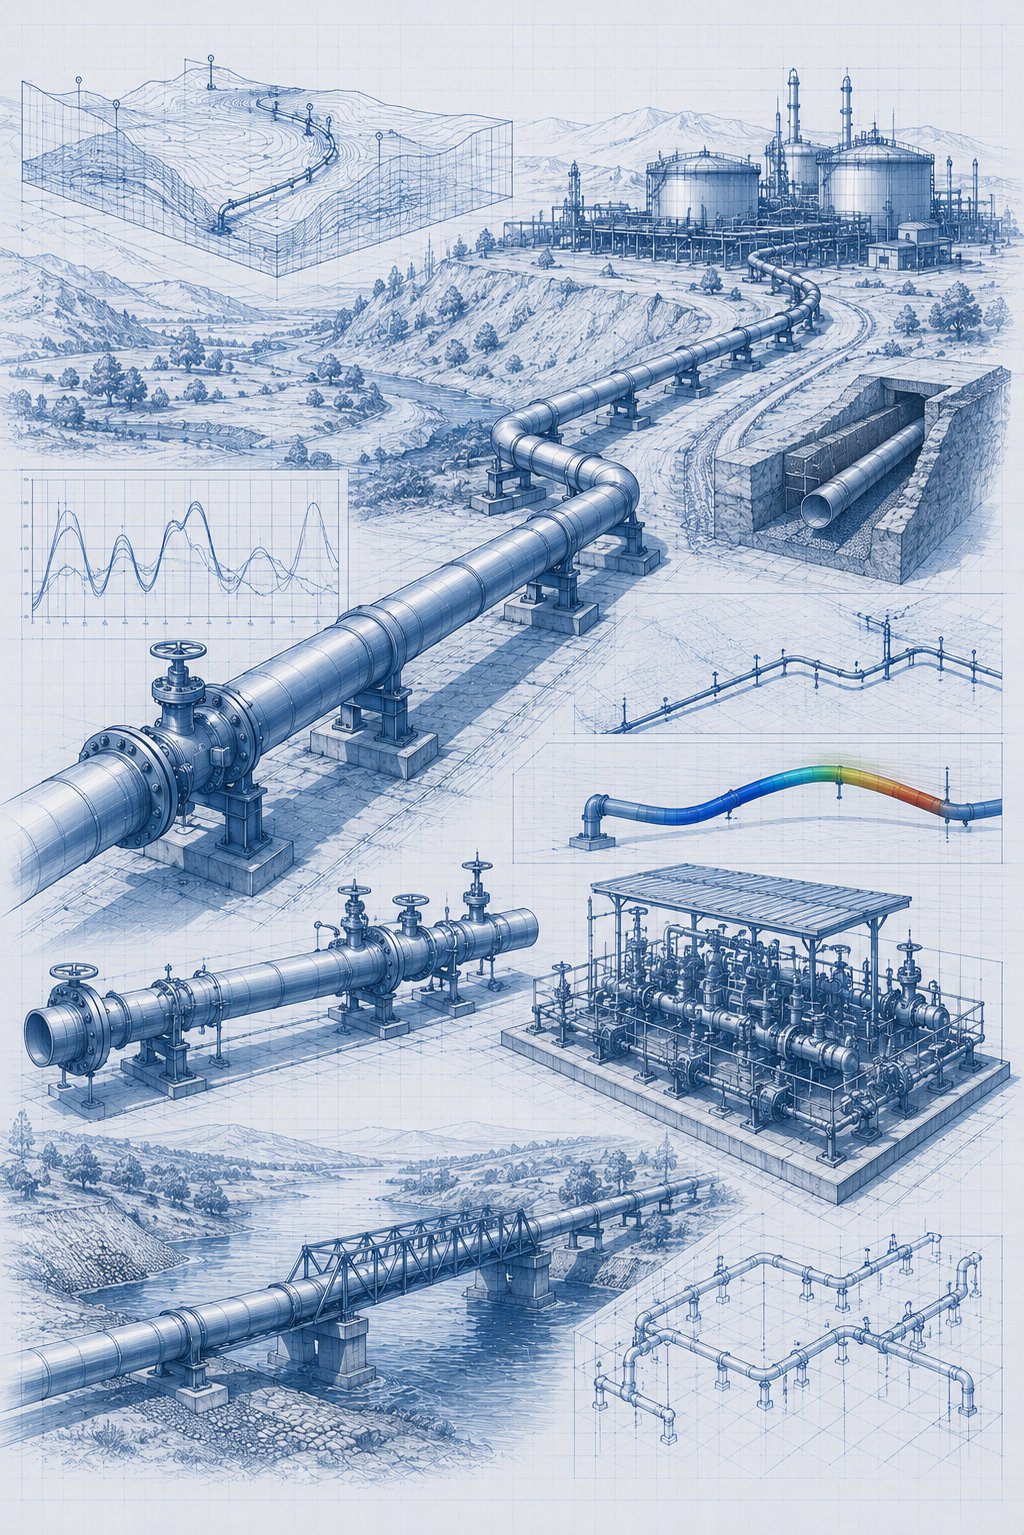
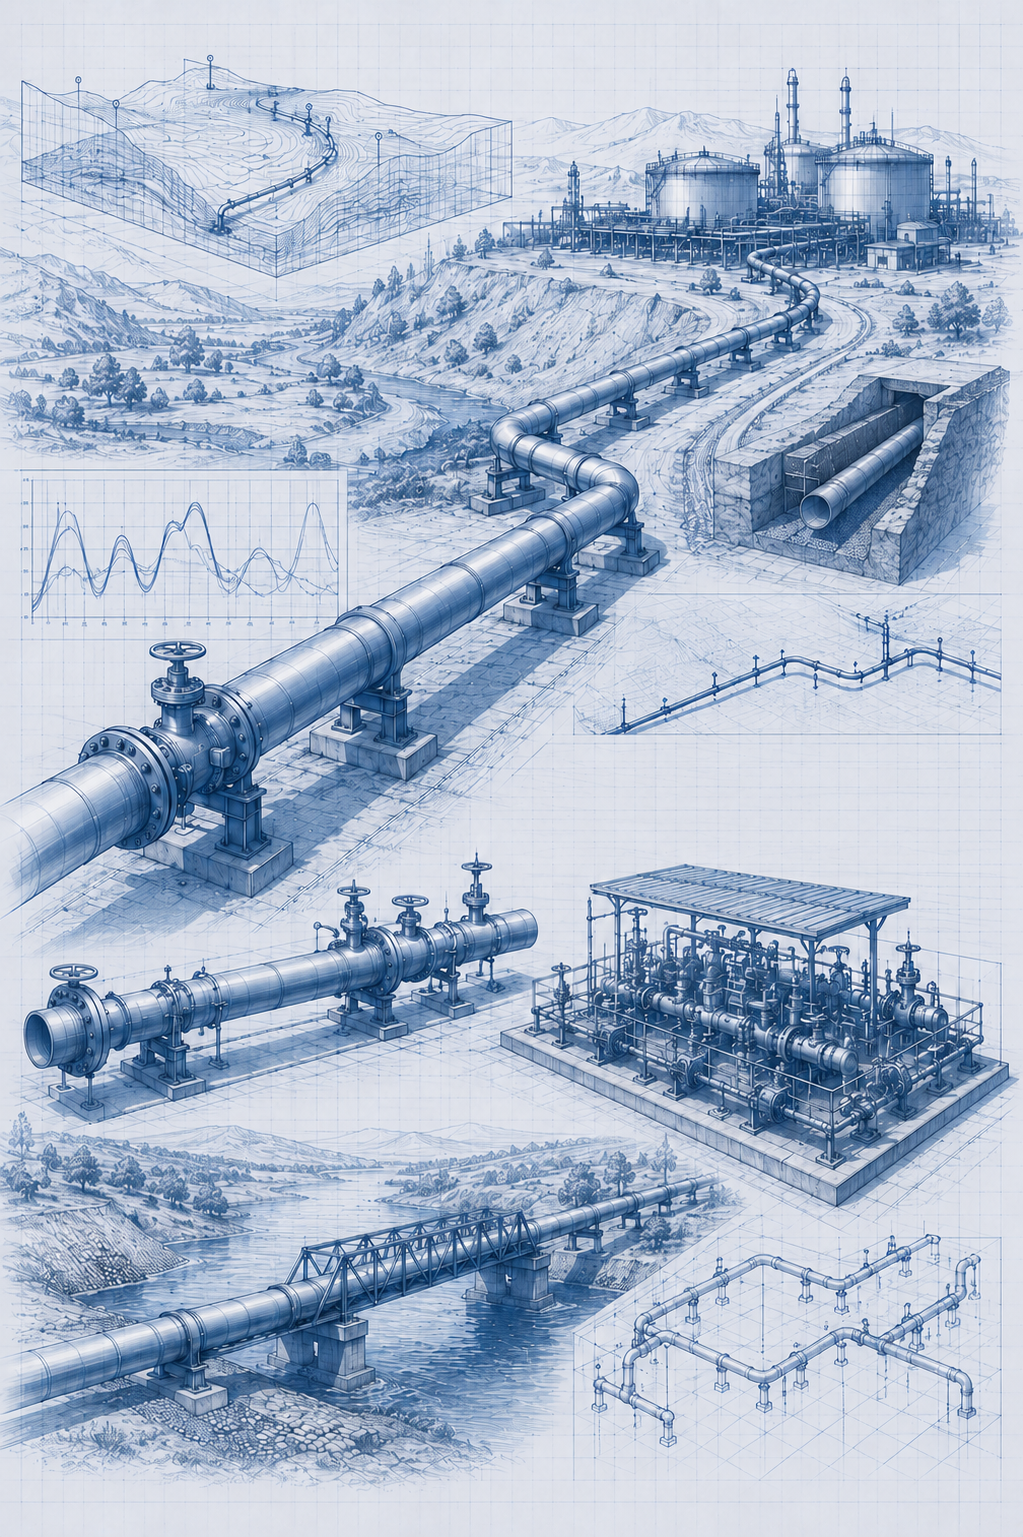
updated the comments

diff --git a/frontend/src/components/ServicesMatrix.jsx b/frontend/src/components/ServicesMatrix.jsx
@@ -5,22 +5,21 @@ import Link from 'next/link';
 import Image from 'next/image';
 import {
   ArrowUpRight, Activity, Layers, Disc, Hammer, Compass,
-  Zap, Sliders, Cpu, Briefcase, FileCheck, Box, Database
+  Zap, Sliders, Cpu, Briefcase, FileCheck, Box, Database , Map,
 } from 'lucide-react';
 
-// ─── LOCAL ASSETS ───────────────────────────────────────────────────────────
-import img1  from '../assets/service-1.png';
-import img2  from '../assets/service-2.png';
-import img3  from '../assets/service-3.png';
-import img4  from '../assets/service-4.png';
-import img5  from '../assets/service-5.png';
-import img6  from '../assets/service-6.png';
-import img7  from '../assets/service-7.png';
-import img8  from '../assets/service-8.png';
-import img9  from '../assets/service-9.png';
-import img10 from '../assets/service-10.png';
-import img11 from '../assets/service-11.png';
-import img12 from '../assets/service-12.png';
+import img1  from "../assets/service-1.png";
+import img2  from "../assets/service-2.png";
+import img3  from "../assets/service-3.png";
+import img4  from "../assets/service-3me.png";
+import img5  from "../assets/service-4.png";
+import img6  from "../assets/service-5.png";
+import img7  from "../assets/service-7.png";
+import img8  from "../assets/service-8.png";
+import img9  from "../assets/service-9.png";
+import img10 from "../assets/service-10.png"; // optional if unused
+import img11 from "../assets/service-11.png";
+import img12 from "../assets/service-12.png";
 
 // ─── THEME TOKENS (Upgraded to Hero Palette) ────────────────────────────────
 const CYAN       = '#00E8B8';        // brighter, modern premium cyan
@@ -30,19 +29,96 @@ const CYAN_BORDER= 'rgba(0,232,184,0.18)'; // Softened borders (40% reduction)
 
 // ─── SERVICE DATA ────────────────────────────────────────────────────────────
 const SERVICES = [
-  { title: "Process & Safety Engineering", code: "PE-101", desc: "FEED studies, process simulation, PFD/P&ID development, and SIL assessments.", icon: Activity, href: "/services/process-safety-engineering", img: img1 },
-  { title: "Plant Layout & Piping Engineering", code: "PP-102", desc: "3D routing, clash resolution, and isometric extraction.", icon: Layers, href: "/services/plant-layout-piping", img: img2 },
-  { title: "Mechanical Engineering", code: "ME-103", desc: "Static/rotating equipment sizing, vendor reviews, and pressure vessel support.", icon: Hammer, href: "/services/mechanical-equipment", img: img4 },
-  { title: "Civil & Structural Engineering", code: "CS-104", desc: "Site development, structural steel racks, and blast-resistant design.", icon: Compass, href: "/services/civil-structural", img: img5 },
-  { title: "Electrical Engineering", code: "EL-105", desc: "Power system design, short circuit studies, and substation compliance.", icon: Zap, href: "/services/electrical-engineering", img: img7 },
-  { title: "Instrumentation & Control Engineering", code: "IC-106", desc: "Datasheet development, cause & effect matrices, and SIS support.", icon: Sliders, href: "/services/instrumentation-control", img: img8 },
-  { title: "Engineering Simulations", code: "FE-107", desc: "Advanced computational fluid dynamics (CFD) and structural behaviour checks.", icon: Cpu, href: "/services/engineering-simulations", img: img10 },
-  { title: "Digital Engineering & 3D Modelling", code: "DE-108", desc: "Integrated intelligent 3D plant coordination models and database upgrades.", icon: Box, href: "/services/digital-engineering-3d", img: img9 },
-  { title: "Project Engineering & PMC Support", code: "PM-109", desc: "Project management, scheduling, and multi-discipline interface coordination.", icon: Briefcase, href: "/services/project-engineering-pmc", img: img11 },
-  { title: "As-Built & Asset Documentation", code: "AB-110", desc: "Database reconciliation and asset info validation handover packages.", icon: FileCheck, href: "/services/as-built-documentation", img: img12 },
-  { title: "Engineering Data & Digitalization", code: "ED-111", desc: "Legacy drawing digitization and digital twin data preparation workflows.", icon: Database, href: "/services/engineering-data-digitalization", img: img6 },
-  { title: "Construction Management, Commissioning Asset Support", code: "CC-112", desc: "Mechanical completion reviews, pre-commissioning, and startup support.", icon: Disc, href: "/services/construction-commissioning-support", img: img3 },
+  {
+    title: "Process & Safety Engineering",
+    code: "PE-101",
+    desc: "Process design, simulation, PFD/P&ID development, HAZOP, SIL assessment, and process safety management.",
+    icon: Activity,
+    href: "/services/process-safety-engineering",
+    img: img1,
+  },
+  {
+    title: "Plant Layout & Piping Engineering",
+    code: "PP-102",
+    desc: "Plot plans, equipment layout, 3D modelling, pipe stress analysis, clash detection, and isometric generation.",
+    icon: Layers,
+    href: "/services/plant-layout-piping",
+    img: img2,
+  },
+  {
+    title: "Pipeline Engineering",
+    code: "PL-103",
+    desc: "Pipeline routing, hydraulic and surge analysis, stress analysis, integrity engineering, and as-built documentation.",
+    icon: Map,
+    href: "/services/pipeline-engineering",
+    img: img3,
+  },
+  {
+    title: "Mechanical Engineering",
+    code: "ME-104",
+    desc: "Static, rotating and package equipment, pressure vessels, heat exchangers, tanks, and mechanical handling systems.",
+    icon: Hammer,
+    href: "/services/mechanical-engineering",
+    img: img4,
+  },
+  {
+    title: "Civil & Structural Engineering",
+    code: "CS-105",
+    desc: "Pipe racks, structural steel, foundations, offshore structures, seismic analysis, and blast-resistant design.",
+    icon: Compass,
+    href: "/services/civil-structural",
+    img: img5,
+  },
+  {
+    title: "Electrical Engineering",
+    code: "EL-106",
+    desc: "Power system design, load flow studies, short circuit analysis, cable routing, substations, and hazardous area compliance.",
+    icon: Zap,
+    href: "/services/electrical-engineering",
+    img: img6,
+  },
+  {
+    title: "Instrumentation & Control Engineering",
+    code: "IC-107",
+    desc: "Instrumentation design, I/O lists, control philosophy, SIS engineering, loop design, and telecom systems.",
+    icon: Sliders,
+    href: "/services/instrumentation-control",
+    img: img8,
+  },
+  {
+    title: "Engineering Simulations",
+    code: "ES-108",
+    desc: "CFD, finite element analysis, thermal studies, structural simulations, design verification, and performance validation.",
+    icon: Cpu,
+    href: "/services/engineering-simulations",
+    img: img7,
+  },
+  {
+    title: "As-Built & Asset Documentation",
+    code: "AB-109",
+    desc: "Redline incorporation, as-built updates, asset verification, engineering database reconciliation, and handover documentation.",
+    icon: FileCheck,
+    href: "/services/as-built-documentation",
+    img: img12,
+  },
+  {
+    title: "Digitalization",
+    code: "DG-110",
+    desc: "Engineering 2D/3D data migration, legacy drawing digitization, and SmartPlant data management & integration.",
+    icon: Database,
+    href: "/services/digitalization",
+    img: img9,
+  },
+  {
+    title: "Project Delivery & Execution Support",
+    code: "PD-111",
+    desc: "Procurement engineering, vendor management, design coordination, commissioning, maintenance, and asset integrity support.",
+    icon: Briefcase,
+    href: "/services/project-delivery-execution-support",
+    img: img11,
+  },
 ];
+
 
 const COL_A = SERVICES.slice(0, 6);
 const COL_B = SERVICES.slice(6, 12);

diff --git a/frontend/src/app/clients/page.jsx b/frontend/src/app/clients/page.jsx
@@ -2,7 +2,7 @@
 import React, { useState, useEffect, useRef } from 'react';
 import Link from 'next/link';
 import Image from 'next/image';
-import { ArrowRight, ShieldCheck } from 'lucide-react';
+import { ArrowRight } from 'lucide-react';
 
 // ─── LOGO IMPORTS ────────────────────────────────────────────────────────────
 import logoMcdermott from '../../assets/mcdermott.png';
@@ -87,6 +87,7 @@ const STATIC_CATEGORIES = [
 // index tag, corner registration marks, and a desaturate → full-color
 // reveal on hover (a "verified" stamp echoing the ISO badge below).
 function ClientCard({ client, index, visible }) {
+  
 
   return (
     <div
@@ -95,6 +96,7 @@ function ClientCard({ client, index, visible }) {
       } motion-reduce:transition-none`}
       style={{ transitionDelay: visible ? `${Math.min(index * 20, 400)}ms` : '0ms' }}
     >
+     
       
 
       {/* Corner registration marks */}
@@ -107,18 +109,18 @@ function ClientCard({ client, index, visible }) {
       </span>
 
       {/* Logo */}
-      <div className="relative h-full w-full transition-transform duration-500 ease-out group-hover:scale-105">
-  <Image
-    src={client.logo}
-    alt={`${client.name} Logo`}
-    fill
-    sizes="(max-width: 640px) 50vw, (max-width: 768px) 33vw, (max-width: 1024px) 25vw, 20vw"
-    className="object-contain"
-    priority={index < 8}
-  />
-</div>
+      <div className="relative h-full w-full transition-transform duration-500 ease-out motion-reduce:transform-none group-hover:scale-[1.06]">
+        <Image
+          src={client.logo}
+          alt={`${client.name} Logo`}
+          fill
+          sizes="(max-width: 640px) 50vw, (max-width: 768px) 33vw, (max-width: 1024px) 25vw, 20vw"
+          className="object-contain grayscale-55% opacity-80 transition-all duration-500 ease-out group-hover:opacity-100 group-hover:grayscale-0"
+          priority={index < 8}
+        />
+      </div>
 
-     
+      
     </div>
   );
 }
@@ -169,7 +171,9 @@ export default function ClientsPage() {
 
         {/* Industrial Shadow Overlays for Crisp White Typography Contrast */}
         <div className="absolute inset-0 z-10 bg-[#060A17]/50 mix-blend-multiply" />
-        <div className="absolute inset-0 z-10 bg-linear-to-t from-[#FAFAFA] via-transparent to-[#060A17]/30" />
+
+        {/* FIXED GRADIENT: Pushes the white fade strictly to the bottom edge and protects text with a dark layer */}
+        <div className="absolute inset-0 z-10 bg-linear-to-t from-[#FAFAFA] from-2% via-[#060A17]/80 via-25% to-transparent" />
 
         <div className="relative z-20 mx-auto mt-10 max-w-5xl space-y-8 px-4 py-4">
 
@@ -192,12 +196,12 @@ export default function ClientsPage() {
             <span className="text-aarvi-green">most critical assets</span>
           </h1>
 
-          {/* Category chips */}
+          {/* Category chips - Background darkened for perfect legibility */}
           <div className="mx-auto flex max-w-4xl flex-wrap items-center justify-center gap-2.5 pt-6 drop-shadow-md sm:gap-3">
             {STATIC_CATEGORIES.map((category) => (
               <span
                 key={category}
-                className="rounded-full border border-white/15 bg-white/5 px-4 py-1.5 font-sans text-[11px] font-bold uppercase tracking-widest text-slate-200 backdrop-blur-sm transition-colors duration-300 hover:border-aarvi-green/60 hover:text-aarvi-green sm:text-xs"
+                className="rounded-full border border-white/15 bg-black/40 px-4 py-1.5 font-sans text-[11px] font-bold uppercase tracking-widest text-slate-200 backdrop-blur-md transition-colors duration-300 hover:border-aarvi-green/60 hover:text-aarvi-green sm:text-xs"
               >
                 {category}
               </span>
@@ -211,45 +215,24 @@ export default function ClientsPage() {
 
         {/* Matrix Grid Box */}
         <div
-  ref={gridRef}
-  className="flex flex-wrap justify-center overflow-hidden rounded-2xl border border-slate-200 bg-slate-200/60 shadow-xl shadow-slate-200/50"
->
-  {CLIENTS.map((client, i) => (
-    <div
-      key={client.name}
-      className="flex w-1/2 justify-center border-r border-b border-slate-200 sm:w-1/3 md:w-1/4 lg:w-1/5"
-    >
-      <ClientCard
-        client={client}
-        index={i}
-        visible={cardsVisible}
-      />
-    </div>
-  ))}
-</div>
-
-        {/* Quality Validation Subbar */}
-        <div className="relative mt-16 flex flex-col items-center justify-between gap-6 border-t border-slate-200/80 pt-8 md:flex-row">
-          <span aria-hidden="true" className="absolute -top-px left-0 h-px w-16 bg-aarvi-green" />
-
-          <div className="flex items-center gap-3 rounded-xl border border-slate-100 bg-white px-5 py-3 shadow-sm">
-            <ShieldCheck className="h-5 w-5 shrink-0 text-aarvi-green" />
-            <span className="font-mono text-[11px] font-bold uppercase tracking-wide text-slate-500 sm:text-xs">
-              ISO 9001:2015 Technical Compliance certified quality validation
-            </span>
-          </div>
-
-          <Link
-            href="/projects"
-            className="group inline-flex items-center gap-2 rounded-xl bg-aarvi-navy px-6 py-4 font-mono text-xs font-black uppercase tracking-wider text-white shadow-md transition-colors duration-300 hover:bg-aarvi-green focus-visible:outline-none focus-visible:ring-2 focus-visible:ring-aarvi-green focus-visible:ring-offset-2 focus-visible:ring-offset-[#FAFAFA]"
-          >
-            View All Projects
-            <ArrowRight
-              className="h-4 w-4 transition-transform duration-300 group-hover:translate-x-1 motion-reduce:group-hover:translate-x-0"
-              strokeWidth={2.5}
-            />
-          </Link>
+          ref={gridRef}
+          className="flex flex-wrap justify-center overflow-hidden rounded-2xl border border-slate-200 bg-slate-200/60 shadow-xl shadow-slate-200/50"
+        >
+          {CLIENTS.map((client, i) => (
+            <div
+              key={client.name}
+              className="flex w-1/2 justify-center border-r border-b border-slate-200 sm:w-1/3 md:w-1/4 lg:w-1/5"
+            >
+              <ClientCard
+                client={client}
+                index={i}
+                visible={cardsVisible}
+              />
+            </div>
+          ))}
         </div>
+
+        
       </section>
 
     </main>
